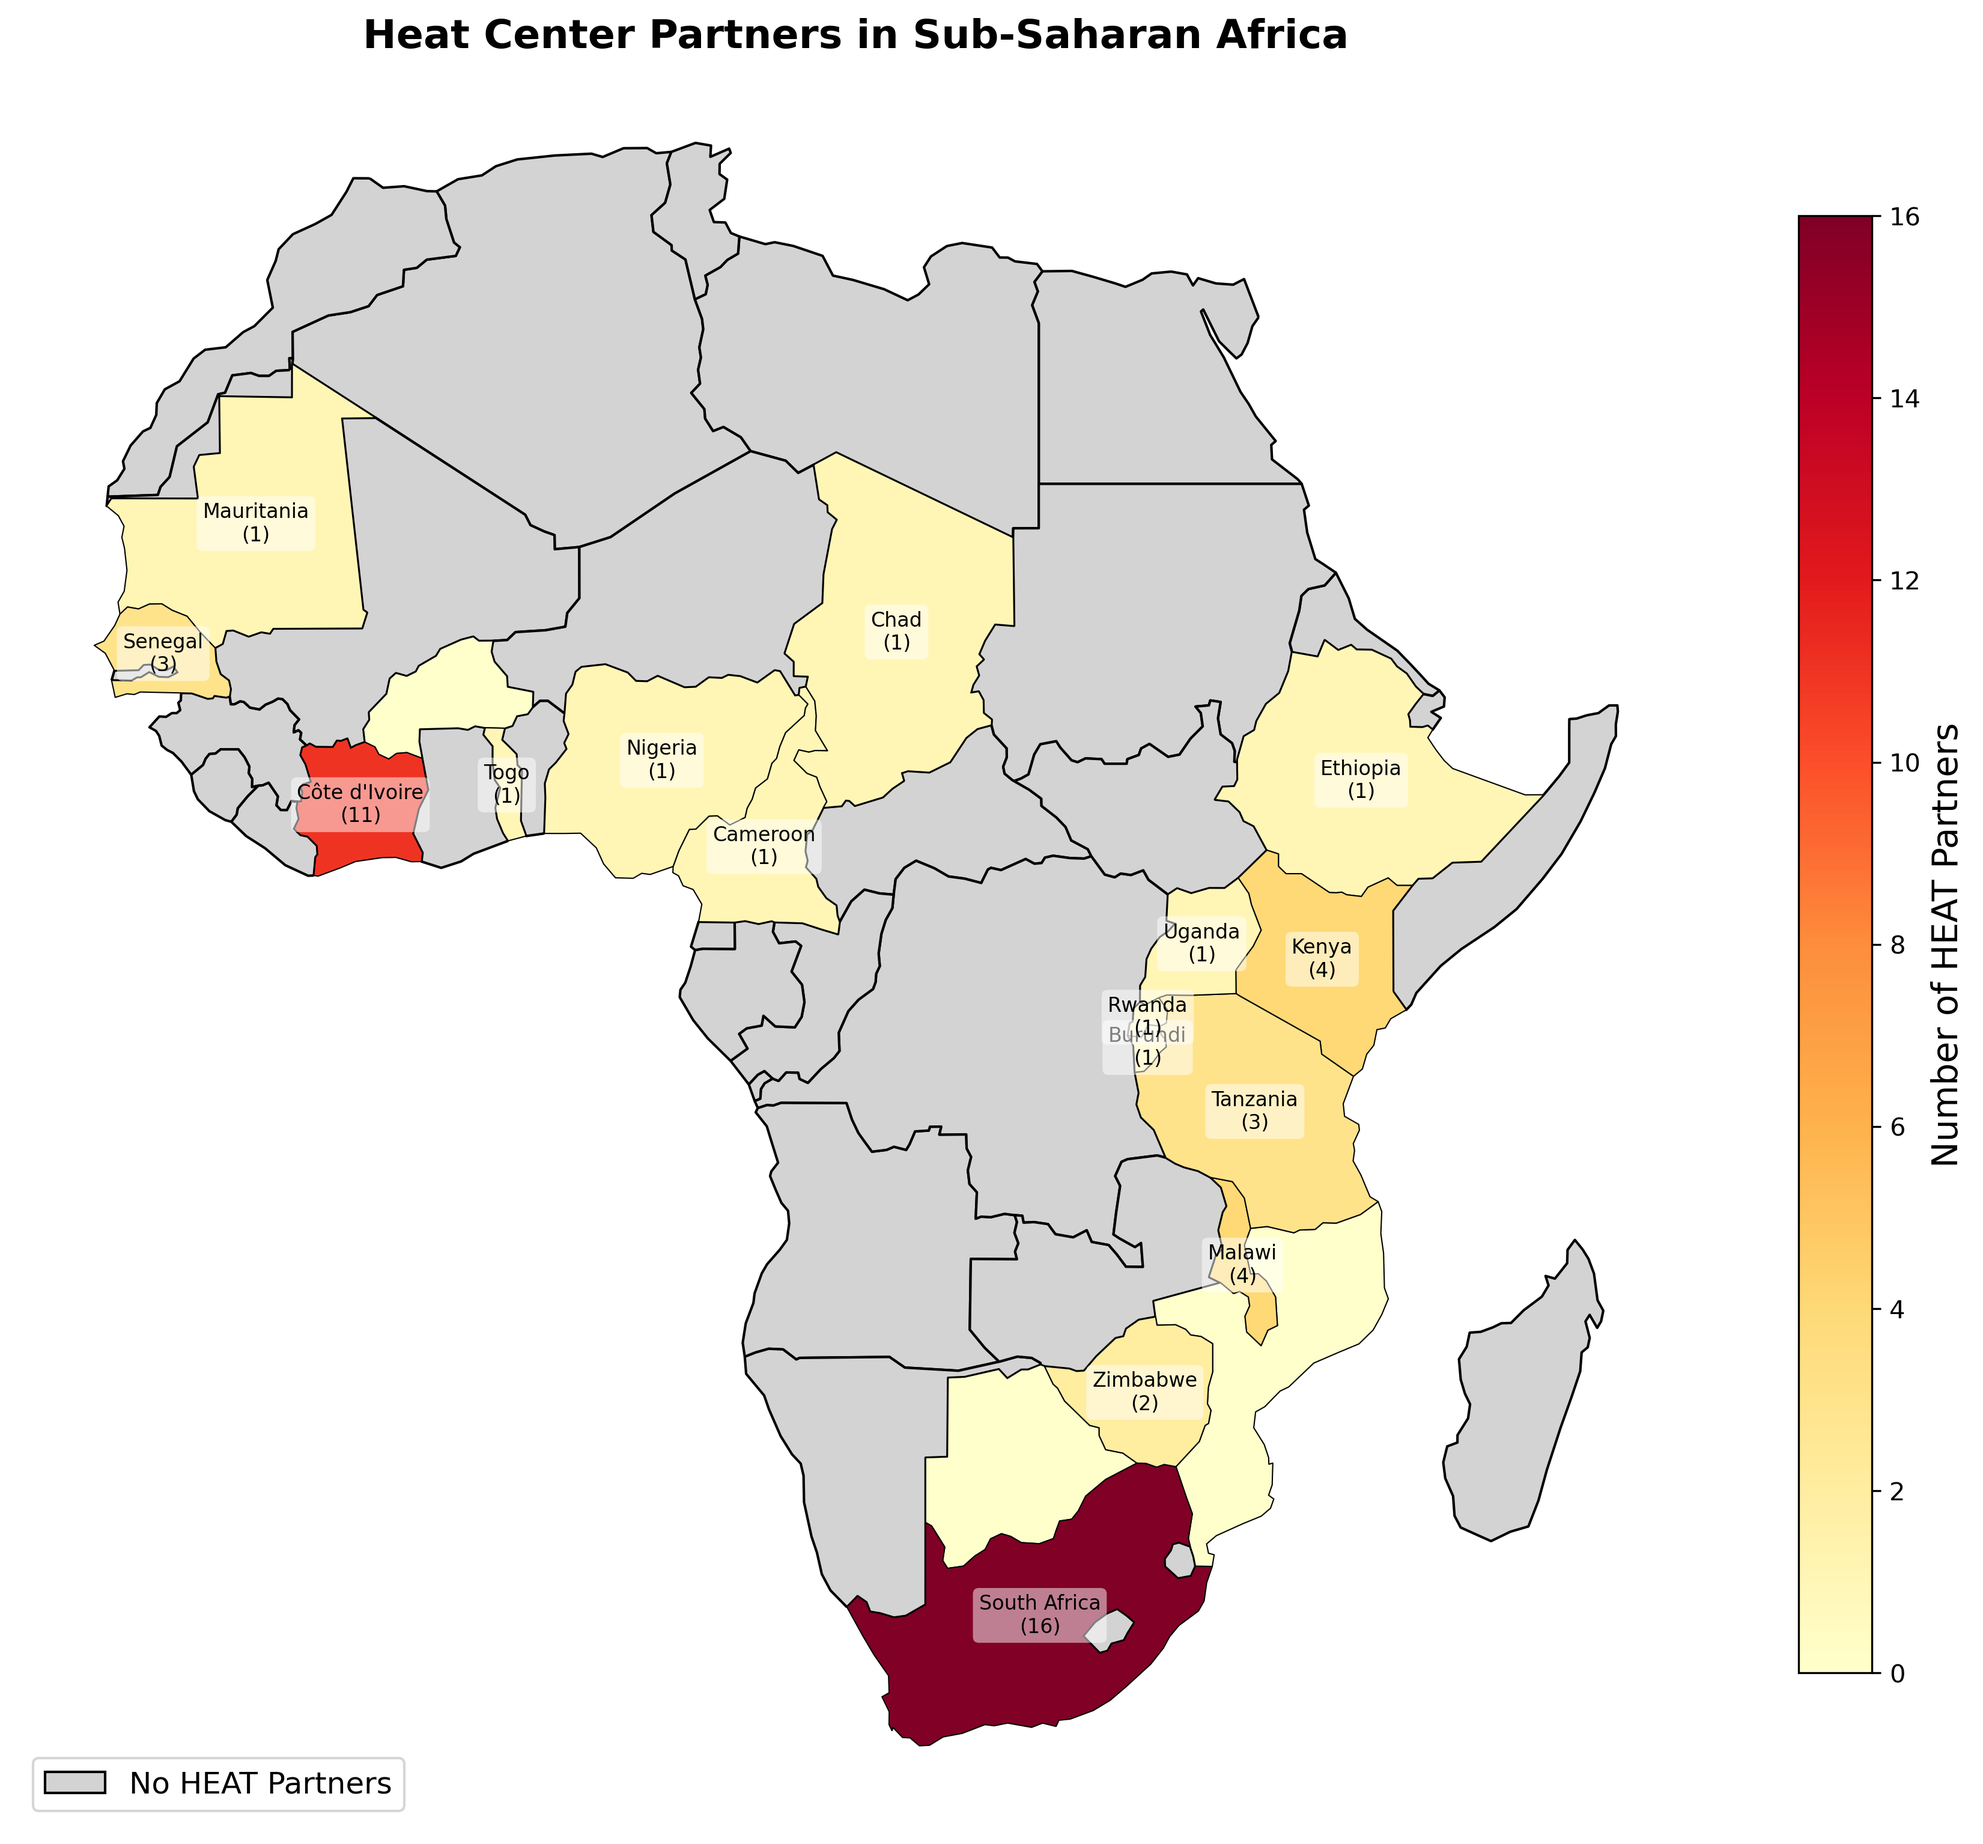
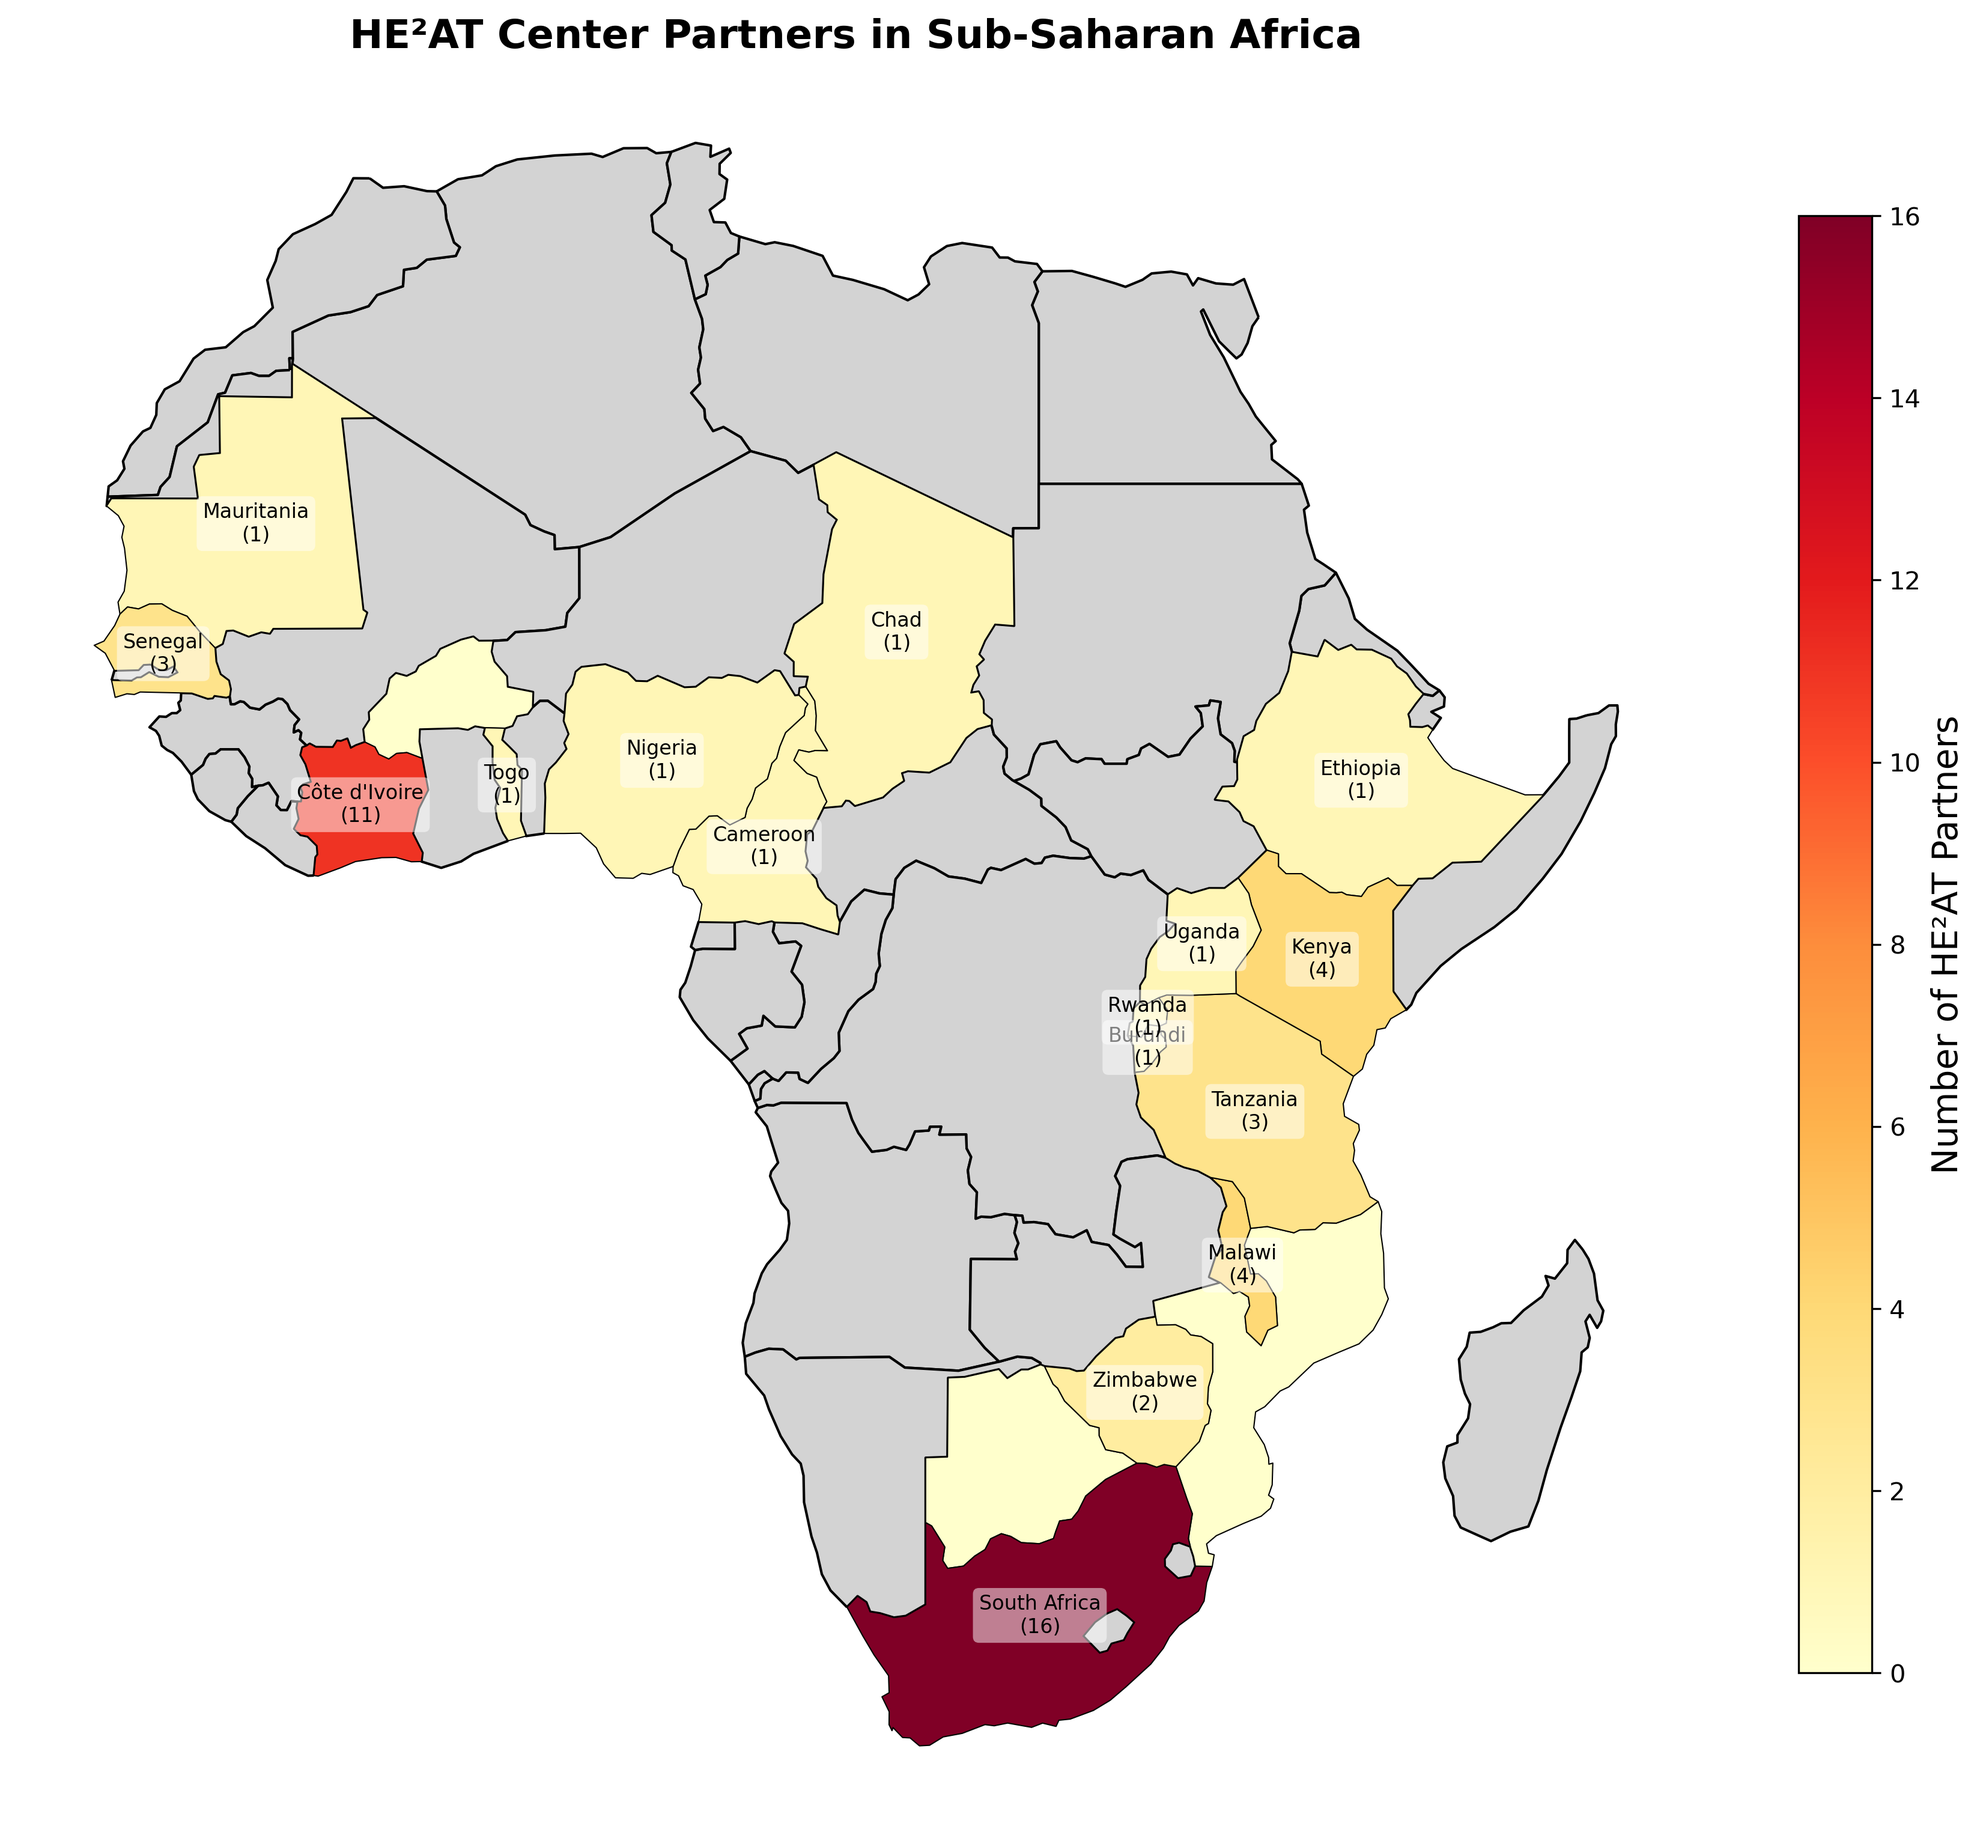
Fix HEAT column name to display HE²AT correctly in map and CSV output

Changed region(s): [[0.156, 0.0, 0.6865, 0.031], [0.9673, 0.4024, 0.9985, 0.65], [0.0, 0.9596, 0.1872, 0.9906]]

diff --git a/create_heat_partners_map.py b/create_heat_partners_map.py
@@ -69,8 +69,10 @@ subsaharan_countries = [
 # Filter for sub-Saharan African countries in our data
 ss_africa_partners = partners_data[partners_data['Country'].isin(subsaharan_countries)]
 
-# Count HE²AT partners by country
-heat_partners = ss_africa_partners.groupby('Country')['HE²AT'].sum().reset_index()
+# Count HEAT partners by country (using the original column name from Excel)
+heat_partners = ss_africa_partners.groupby('Country')['HEAT'].sum().reset_index()
+# Rename for display purposes
+heat_partners = heat_partners.rename(columns={'HEAT': 'HE²AT'})
 print(f"HE²AT partners data:\n{heat_partners}")
 
 # Load Natural Earth data from CartoDB's public data server
